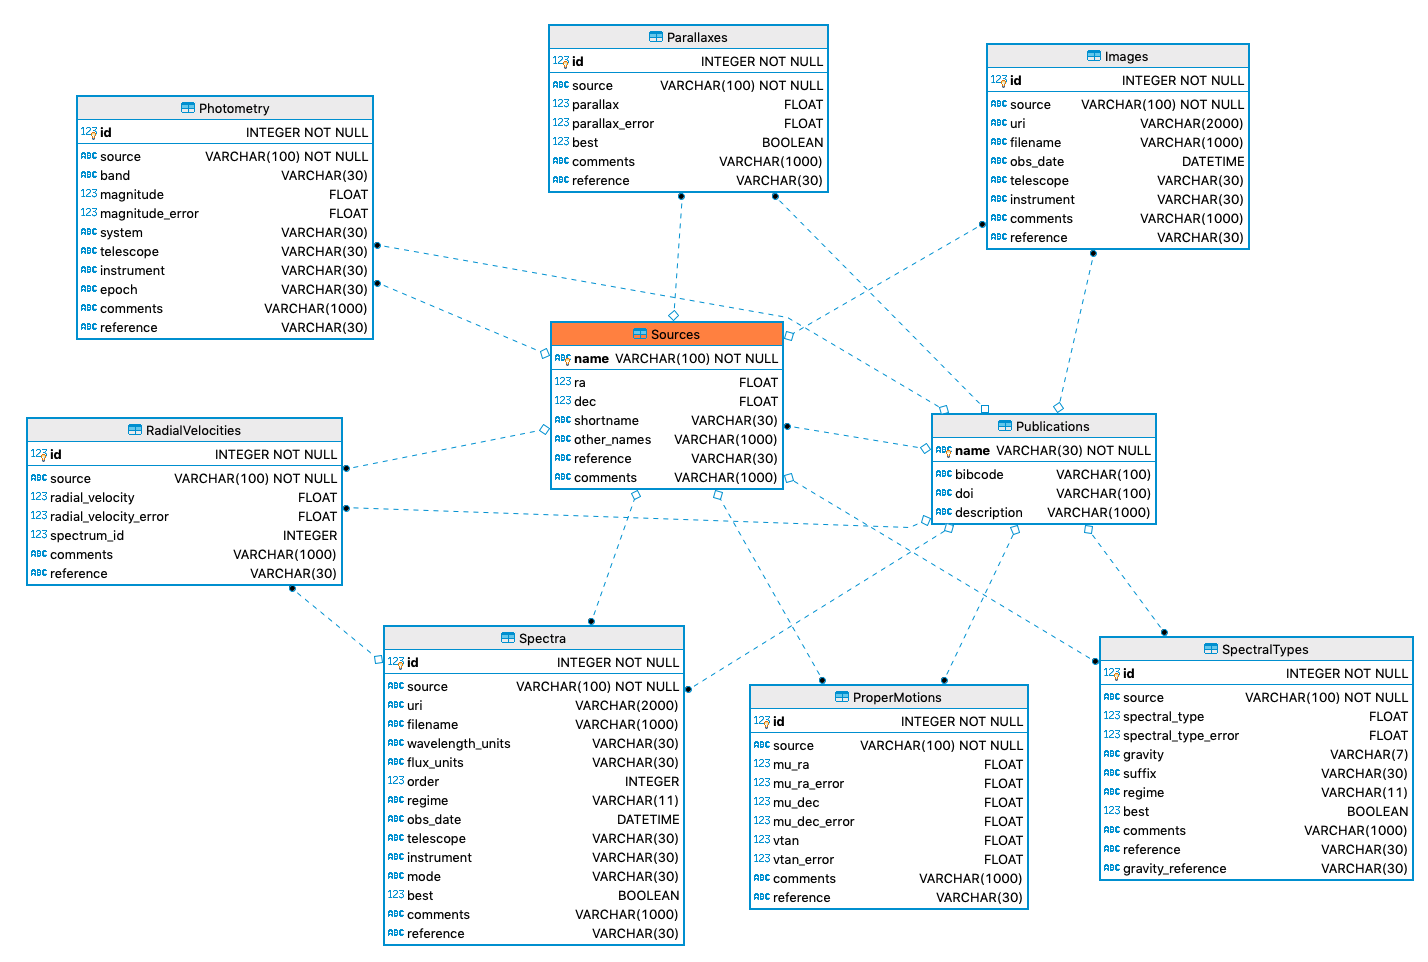
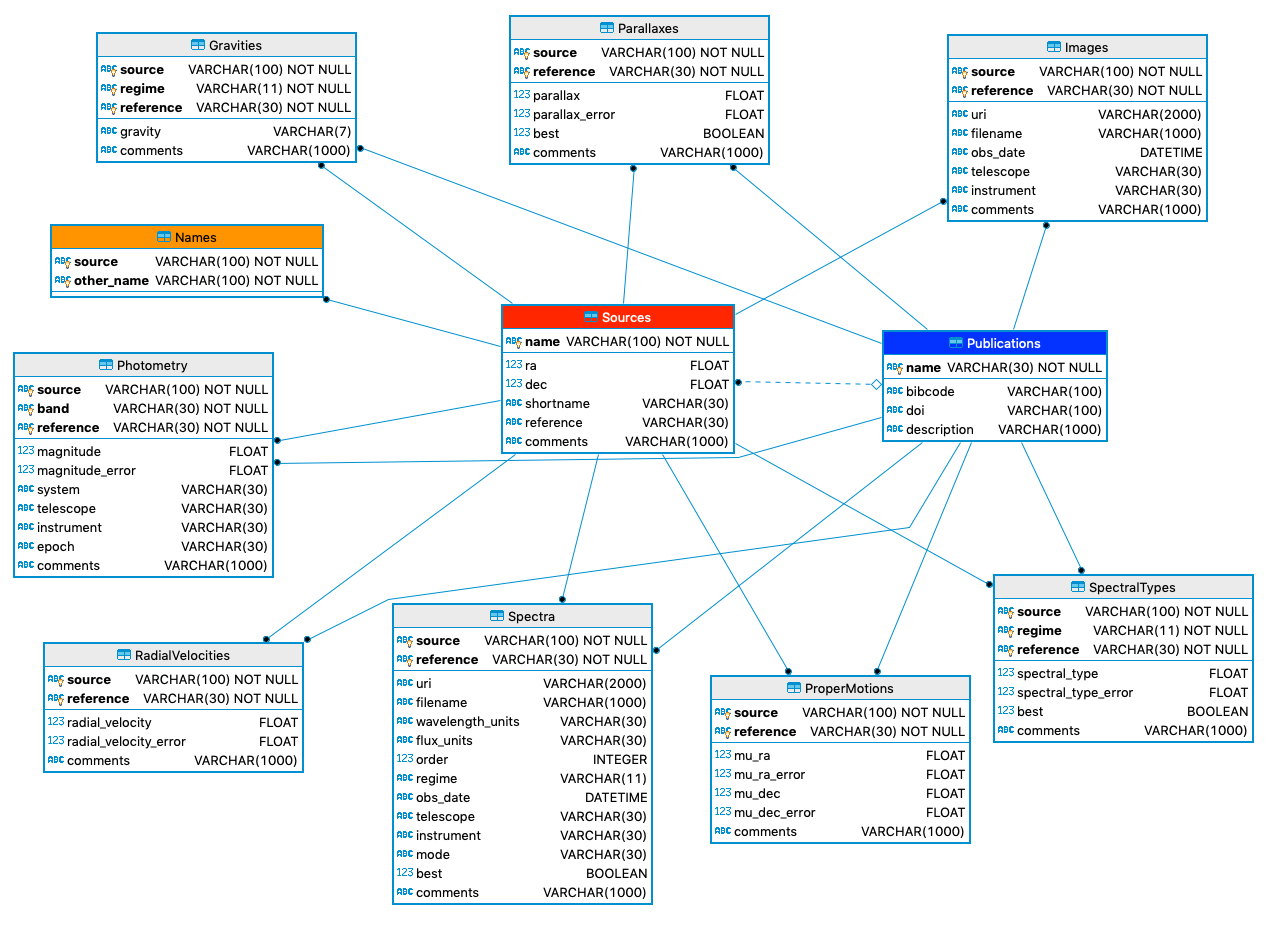
updating to use composite primary keys rather than surrogates across all tables; separating gravity from spectral types

diff --git a/simple/schema.py b/simple/schema.py
@@ -10,7 +10,6 @@ class Publications(Base):
     This stores reference information (DOI, bibcodes, etc) and has shortname as the primary key
     """
     __tablename__ = 'Publications'
-    # id = Column(Integer, primary_key=True, nullable=False, autoincrement=True)
     name = Column(String(30), primary_key=True, nullable=False)
     bibcode = Column(String(100))
     doi = Column(String(100))
@@ -65,51 +64,54 @@ class Gravity(enum.Enum):
 class Sources(Base):
     """ORM for the sources table. This stores the main identifiers for our objects along with ra and dec"""
     __tablename__ = 'Sources'
-    # id = Column(Integer, primary_key=True, nullable=False, autoincrement=True)
-    # designation = Column(String(100), unique=True, nullable=False)
     name = Column(String(100), primary_key=True, nullable=False)
     ra = Column(Float)
     dec = Column(Float)
     shortname = Column(String(30))  # not needed?
-    other_names = Column(String(1000))
     reference = Column(String(30), ForeignKey('Publications.name'))
     comments = Column(String(1000))
+
+
+class Names(Base):
+    __tablename__ = 'Names'
+    source = Column(String(100), ForeignKey('Sources.name'), nullable=False, primary_key=True)
+    other_name = Column(String(100), primary_key=True, nullable=False)
 
 
 class SpectralTypes(Base):
     __tablename__ = 'SpectralTypes'
-    id = Column(Integer, primary_key=True, nullable=False, autoincrement=True)
-    # source_id = Column(Integer, ForeignKey('Sources.id'))
-    source = Column(String(100), ForeignKey('Sources.name'), nullable=False)
+    source = Column(String(100), ForeignKey('Sources.name'), nullable=False, primary_key=True)
     spectral_type = Column(Float)
     spectral_type_error = Column(Float)
-    gravity = Column(Enum(Gravity))  # restricts to enumerated values
-    suffix = Column(String(30))
-    regime = Column(Enum(Regime))  # restricts to two values: Optical, Infrared
+    regime = Column(Enum(Regime), primary_key=True)  # restricts to a few values: Optical, Infrared
     best = Column(Boolean)  # flag for indicating if this is the best measurement or not
     comments = Column(String(1000))
-    reference = Column(String(30), ForeignKey('Publications.name'))
-    gravity_reference = Column(String(30), ForeignKey('Publications.name'))
+    reference = Column(String(30), ForeignKey('Publications.name'), primary_key=True)
+
+
+class Gravities(Base):
+    __tablename__ = 'Gravities'
+    source = Column(String(100), ForeignKey('Sources.name'), nullable=False, primary_key=True)
+    gravity = Column(Enum(Gravity))  # restricts to enumerated values
+    regime = Column(Enum(Regime), primary_key=True)  # restricts to a few values: Optical, Infrared
+    comments = Column(String(1000))
+    reference = Column(String(30), ForeignKey('Publications.name'), primary_key=True)
 
 
 class Parallaxes(Base):
     __tablename__ = 'Parallaxes'
-    id = Column(Integer, primary_key=True, nullable=False, autoincrement=True)
-    # source_id = Column(Integer, ForeignKey('Sources.id'))
-    source = Column(String(100), ForeignKey('Sources.name'), nullable=False)
+    source = Column(String(100), ForeignKey('Sources.name'), nullable=False, primary_key=True)
     parallax = Column(Float)
     parallax_error = Column(Float)
     best = Column(Boolean)  # flag for indicating if this is the best measurement or not
     comments = Column(String(1000))
-    reference = Column(String(30), ForeignKey('Publications.name'))
+    reference = Column(String(30), ForeignKey('Publications.name'), primary_key=True)
 
 
 class Photometry(Base):
     __tablename__ = 'Photometry'
-    id = Column(Integer, primary_key=True, nullable=False, autoincrement=True)
-    # source_id = Column(Integer, ForeignKey('Sources.id'))
-    source = Column(String(100), ForeignKey('Sources.name'), nullable=False)
-    band = Column(String(30))
+    source = Column(String(100), ForeignKey('Sources.name'), nullable=False, primary_key=True)
+    band = Column(String(30), primary_key=True)
     magnitude = Column(Float)
     magnitude_error = Column(Float)
     system = Column(String(30), ForeignKey('Systems.name'))
@@ -117,29 +119,24 @@ class Photometry(Base):
     instrument = Column(String(30), ForeignKey('Instruments.name'))
     epoch = Column(String(30))
     comments = Column(String(1000))
-    reference = Column(String(30), ForeignKey('Publications.name'))
+    reference = Column(String(30), ForeignKey('Publications.name'), primary_key=True)
 
 
 class ProperMotions(Base):
     __tablename__ = 'ProperMotions'
-    id = Column(Integer, primary_key=True, nullable=False, autoincrement=True)
-    # source_id = Column(Integer, ForeignKey('Sources.id'))
-    source = Column(String(100), ForeignKey('Sources.name'), nullable=False)
+    source = Column(String(100), ForeignKey('Sources.name'), nullable=False, primary_key=True)
     mu_ra = Column(Float)
     mu_ra_error = Column(Float)
     mu_dec = Column(Float)
     mu_dec_error = Column(Float)
-    vtan = Column(Float)
-    vtan_error = Column(Float)
     comments = Column(String(1000))
-    reference = Column(String(30), ForeignKey('Publications.name'))
+    reference = Column(String(30), ForeignKey('Publications.name'), primary_key=True)
 
 
 class Spectra(Base):
     __tablename__ = 'Spectra'
-    id = Column(Integer, primary_key=True, nullable=False, autoincrement=True)
-    # source_id = Column(Integer, ForeignKey('Sources.id'))
-    source = Column(String(100), ForeignKey('Sources.name'), nullable=False)
+    # id = Column(Integer, primary_key=True, nullable=False, autoincrement=True)
+    source = Column(String(100), ForeignKey('Sources.name'), nullable=False, primary_key=True)
     uri = Column(String(2000))  # URI/Path to file
     filename = Column(String(1000))  # filename
     wavelength_units = Column(String(30))
@@ -152,32 +149,29 @@ class Spectra(Base):
     mode = Column(String(30), ForeignKey('Modes.name'))
     best = Column(Boolean)  # flag for indicating if this is the best spectrum or not
     comments = Column(String(1000))
-    reference = Column(String(30), ForeignKey('Publications.name'))
+    reference = Column(String(30), ForeignKey('Publications.name'), primary_key=True)
 
 
 class RadialVelocities(Base):
     __tablename__ = 'RadialVelocities'
-    id = Column(Integer, primary_key=True, nullable=False, autoincrement=True)
-    # source_id = Column(Integer, ForeignKey('Sources.id'))
-    source = Column(String(100), ForeignKey('Sources.name'), nullable=False)
+    source = Column(String(100), ForeignKey('Sources.name'), nullable=False, primary_key=True)
     radial_velocity = Column(Float)
     radial_velocity_error = Column(Float)
-    spectrum_id = Column(Integer, ForeignKey('Spectra.id'))
     comments = Column(String(1000))
-    reference = Column(String(30), ForeignKey('Publications.name'))
+    reference = Column(String(30), ForeignKey('Publications.name'), primary_key=True)
 
 
 class Images(Base):
     __tablename__ = 'Images'
-    id = Column(Integer, primary_key=True, nullable=False, autoincrement=True)
-    source = Column(String(100), ForeignKey('Sources.name'), nullable=False)
+    # id = Column(Integer, primary_key=True, nullable=False, autoincrement=True)
+    source = Column(String(100), ForeignKey('Sources.name'), nullable=False, primary_key=True)
     uri = Column(String(2000))  # URI/Path to file
     filename = Column(String(1000))  # filename
     obs_date = Column(DateTime)
     telescope = Column(String(30), ForeignKey('Telescopes.name'))
     instrument = Column(String(30), ForeignKey('Instruments.name'))
     comments = Column(String(1000))
-    reference = Column(String(30), ForeignKey('Publications.name'))
+    reference = Column(String(30), ForeignKey('Publications.name'), primary_key=True)
 
 # TODO: As an alternative to Images, Spectra, we could consider ObsCore, though we may need some additions
 

diff --git a/scripts/dr_testing.py b/scripts/dr_testing.py
@@ -13,6 +13,7 @@ session, base, engine = load_connection(connection_string)
 
 # Create database (can skip if already done)
 from simple.schema import *
+base.metadata.drop_all()  # drop all the tables
 base.metadata.create_all()  # this explicitly create the SQLite file
 
 
